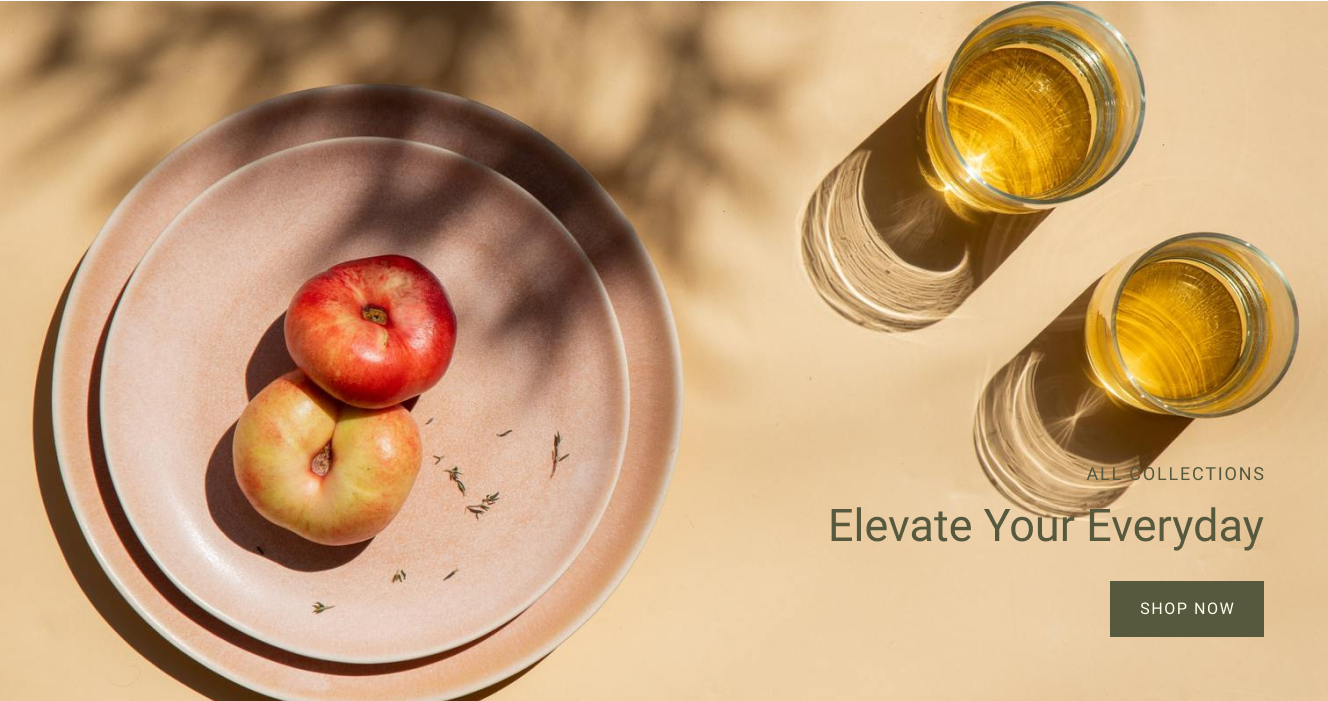
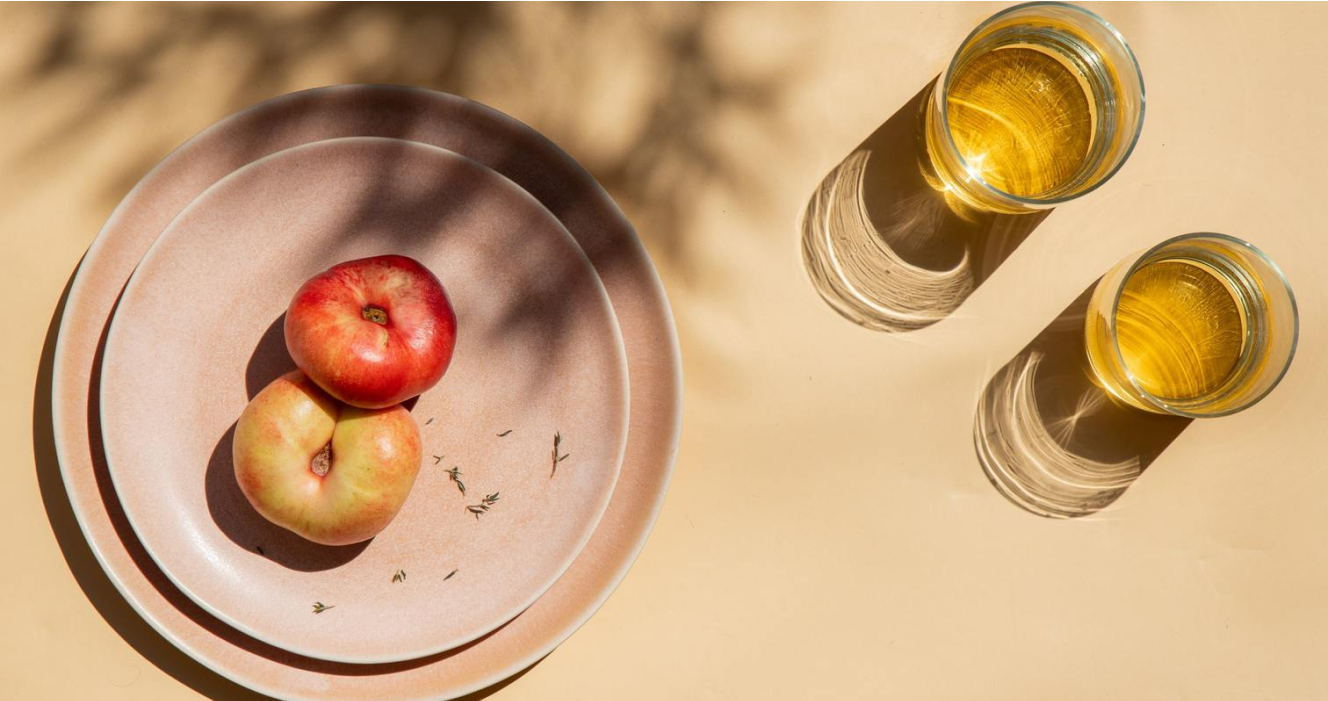
week6

Changed region(s): [[0.6175, 0.719, 0.9571, 0.7789], [0.8336, 0.8088, 0.9571, 0.9287], [0.8027, 0.6591, 0.9571, 0.689]]

diff --git a/week6/kinn/styles/style.css b/week6/kinn/styles/style.css
@@ -19,9 +19,10 @@ header {
   display: flex;
   flex-direction: row;
   flex-wrap: wrap;
+  justify-content: center;
   height: 78px;
-  margin: 1em 80px;
-  justify-content: space-between;
+  box-sizing: border-box;
+  margin: 0 40px;
 }
 
 nav {
@@ -72,20 +73,56 @@ main {
   flex-direction: row;
   flex-wrap: wrap;
   justify-content: center;
-  margin: 0px 40px;
+  margin: 0 40px;
 }
 
-.block-main-img {
+.block-img {
   display: flex;
-  flex-direction: column;
+  flex-direction: row;
   flex-wrap: wrap;
-  justify-content: center;
+  object-fit: cover;
 }
 
-.main-img {
+.img {
   border: 16px solid #ffffef;
-  width: 1328px;
-  height: 700px;
+}
+
+.absolute-text1 {
+  position: absolute;
+  text-align: right;
+  margin-left: 796px;
+  margin-top: 480px;
+}
+
+.uppercase {
+  font-family: "Roboto, sans-serif";
+  font-style: normal;
+  font-weight: normal;
+  font-size: 18px;
+  color: #56593d;
+  text-align: right;
+}
+
+h1 {
+  font-family: "Roboto, sans-serif";
+  font-style: normal;
+  font-weight: normal;
+  font-size: 45px;
+  color: #56593d;
+  text-align: right;
+}
+
+button {
+  width: 154px;
+  height: 56px;
+  background-color: #56593d;
+  color: #ffffef;
+  border: 0px;
+  font-family: "Roboto, sans-serif";
+  font-style: normal;
+  font-weight: normal;
+  font-size: 16px;
+  text-align: center;
 }
 
 .grid-text-block {
@@ -148,8 +185,8 @@ a {
 }
 
 .grid-catalog {
-  width: 100%;
   display: grid;
+  width: 100%;
   grid-template-rows: 0.8fr 2fr;
   grid-template-columns: 1fr 1fr 1fr;
   gap: 1em 1em;
@@ -207,4 +244,31 @@ figcaption p {
   text-align: center;
   padding-top: 7px;
   padding-bottom: 7px;
+}
+
+.absolute-text2 {
+  position: absolute;
+  text-align: right;
+  margin-left: 118px;
+  margin-top: 62px;
+}
+
+.less-uppercase {
+  font-family: "Roboto, sans-serif";
+  font-style: normal;
+  font-weight: normal;
+  font-size: 17px;
+  color: #56593d;
+  text-align: center;
+}
+
+h3 {
+  font-family: "Roboto, sans-serif";
+  font-style: normal;
+  font-weight: normal;
+  font-size: 50px;
+  color: #56593d;
+  text-align: center;
+  width: 1093px;
+  margin-top: 11px;
 }

diff --git a/week6/kinn/kinn.html b/week6/kinn/kinn.html
@@ -35,9 +35,14 @@
       </div>
     </header>
     <main>
-      <section class="block-main-img">
-        <img class="main-img" src="/images/main-img.png" alt="Фото посуды KINN" />
+      <section class="block-img">
+        <img class="img" src="/images/main-img.png" alt="Фото посуды KINN" />
       </section>
+      <div class="absolute-text1">
+        <p class="uppercase">ALL COLLECTIONS</p>
+        <h1>Elevate Your Everyday</h1>
+        <button>SHOP NOW</button>
+      </div>
       <section class="grid-text-block">
         <div class="div-big-text">
           <p class="big-text">
@@ -83,6 +88,13 @@
             <p>$158.00</p>
           </figcaption>
         </figure>
+      </section>
+      <section class="block-img">
+        <img class="img" src="/images/img2.png" alt="Фото посуды KINN" />
+        <div class="absolute-text2">
+          <p class="less-uppercase">THE ESSENTIALS</p>
+          <h3>We believe minimalism means more. More space, more time, more meaningful moments.</h3>
+        </div>
       </section>
     </main>
   </body>
